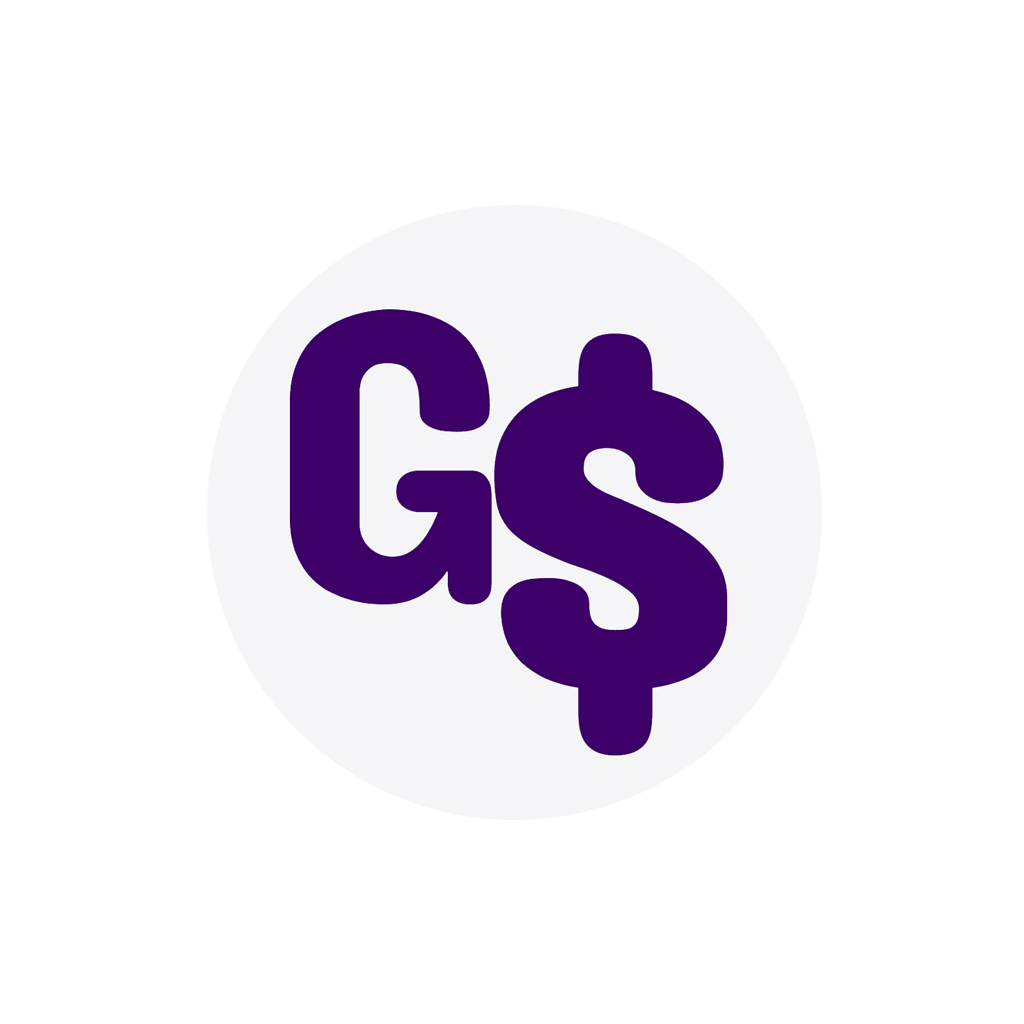
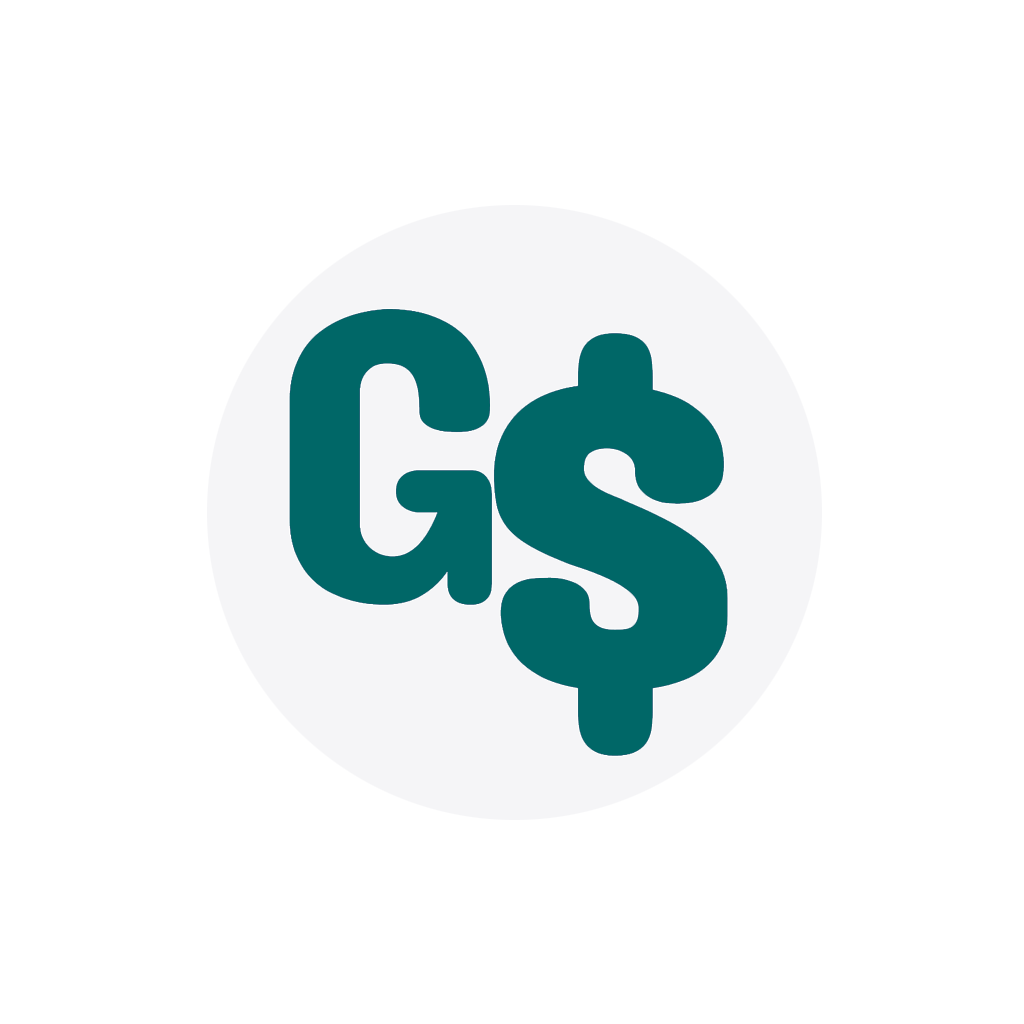
Estruturando o Redux, e alterando a cor do layout

Changed region(s): [[0.2812, 0.2812, 0.7188, 0.75]]

diff --git a/src/components/common/Carrinho.js b/src/components/common/Carrinho.js
@@ -42,7 +42,7 @@ class Carrinho extends Component {
                         {/* Parte do título e botão de sair */}
                         <View style={styles.blocoTitulo}>
                             <TouchableOpacity style={styles.left} onPress={this.props.onCancel}>
-                                <FontAwesomeIcon icon={ faTimes } size={40} color='#300053'/>
+                                <FontAwesomeIcon icon={ faTimes } size={40} color='#006666'/>
                             </TouchableOpacity>
                             <View style={styles.center}>
                                 <Text style={this.state.fontsLoaded ? styles.textoTitulo: styles.textoTituloSemFonte}>
@@ -129,7 +129,7 @@ const styles = StyleSheet.create({
         backgroundColor: '#ebeff5',
         borderWidth: 2,
         borderRadius: 10,
-        borderColor: '#300053',
+        borderColor: '#006666',
         width: Dimensions.get('window').width * 0.9
     },
     blocoTitulo: {
@@ -164,13 +164,13 @@ const styles = StyleSheet.create({
     },
     textoTitulo: {
         fontFamily: 'PTSans-Bold',
-        color: '#300053',
+        color: '#005252',
         textAlign: 'justify',
         fontSize: 25,
         margin: 10
     },
     textoTituloSemFonte: {
-        color: '#300053',
+        color: '#005252',
         textAlign: 'justify',
         fontSize: 25,
         margin: 10
@@ -189,20 +189,26 @@ const styles = StyleSheet.create({
     },
    tituloValores: {
         fontFamily: 'PTSans-Bold',
-        color: '#300053',
+        color: '#005252',
+        textAlign: 'left',
+        fontSize: 18,
+        margin: 3
+    },
+    tituloValoresSemFonte: {
+        color: '#005252',
         textAlign: 'left',
         fontSize: 18,
         margin: 3
     },
     valores: {
         fontFamily: 'PTSans-Bold',
-        color: '#300053',
+        color: '#005252',
         textAlign: 'right',
         fontSize: 18,
         margin: 3
     },
    valoresSemFonte: {
-        color: '#300053',
+        color: '#005252',
         textAlign: 'left',
         fontSize: 18,
         margin: 3
@@ -211,7 +217,7 @@ const styles = StyleSheet.create({
         width: Dimensions.get('window').width * 0.8,
         flexDirection: 'row',
         justifyContent: 'center',
-        backgroundColor: '#300053',
+        backgroundColor: '#006666',
         borderBottomRightRadius: 20,
         borderTopLeftRadius: 20,
         marginVertical: 5,

diff --git a/src/store/reducers/produtos.js b/src/store/reducers/produtos.js
@@ -1,0 +1,26 @@
+import { ADD_PRODUTO, CLEAN_CARRINHO } from '../actions/actionTypes'
+
+const initialState = {
+    carrinho: [],
+}
+
+const reducer = (state = initialState, action) => {
+    switch (action.type) {
+        case ADD_PRODUTO:
+            return {
+                ...state,
+                carrinho: action.payload.carrinho,
+            }
+
+        case CLEAN_CARRINHO:
+            return {
+                ...state,
+                carrinho: [],
+            }
+            
+        default:
+            return state
+    }
+}
+
+export default reducer 

diff --git a/App.js b/App.js
@@ -1,11 +1,18 @@
 import React, { Component } from 'react';
+import { Provider } from 'react-redux'
 import Navigator from './src/Navigator';
+
+import storeConfig from './src/store/storeConfig';
+
+const store = storeConfig()
 
 export default class App extends Component {
 
   render() {
     return (
-      <Navigator />
+      <Provider store={store}>
+        <Navigator />
+      </Provider>
     );
   }
   

diff --git a/src/components/common/Header.js b/src/components/common/Header.js
@@ -55,7 +55,7 @@ const styles = StyleSheet.create({
         paddingTop: 35,
         borderBottomWidth: 0.5,
         borderColor: '#BBB',
-        backgroundColor: '#300053',
+        backgroundColor: '#006666',
         width: '100%',
         flexDirection: 'row',
         justifyContent: 'space-between',

diff --git a/src/components/produtos/Ordenacao.js b/src/components/produtos/Ordenacao.js
@@ -127,7 +127,7 @@ const styles = StyleSheet.create({
     collapseH: {
         flexDirection: 'row',
         alignItems: 'center',
-        backgroundColor: '#300053',
+        backgroundColor: '#006666',
         borderRadius: 10,
         width: Dimensions.get('window').width * 0.90,
     },

diff --git a/src/store/actions/produtos.js b/src/store/actions/produtos.js
@@ -1,0 +1,15 @@
+import { ADD_PRODUTO, CLEAN_CARRINHO } from './actionTypes'
+
+export const addCarrinho = produtos => {
+    return {
+        type: ADD_PRODUTO,
+        payload: produtos
+    }
+}
+
+export const cleanCarrinho = () => {
+    return {
+        type: CLEAN_CARRINHO,
+    }
+}
+

diff --git a/src/store/storeConfig.js b/src/store/storeConfig.js
@@ -1,0 +1,12 @@
+import { createStore, combineReducers } from 'redux'
+import produtosReducer from './reducers/produtos'
+
+const reducers = combineReducers({
+    produtos: produtosReducer,
+})
+
+const storeConfig = () => {
+    return createStore(reducers)
+}
+
+export default storeConfig

diff --git a/src/Navigator.js b/src/Navigator.js
@@ -46,7 +46,7 @@ const MenuConfig = {
         activeTintColor: '#789ac7',
         inactiveTintColor: '#fff',
         style: {
-            backgroundColor: '#300053'
+            backgroundColor: '#006666'
         }
     }
 }

diff --git a/src/store/actions/actionTypes.js b/src/store/actions/actionTypes.js
@@ -1,0 +1,2 @@
+export const ADD_PRODUTO = "ADD_PRODUTO"
+export const CLEAN_CARRINHO = "CLEAN_CARRINHO"
